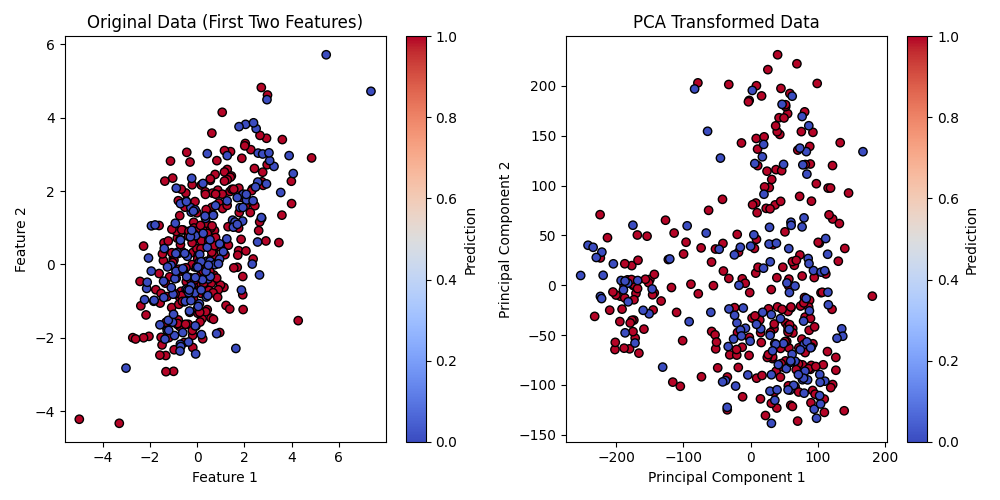
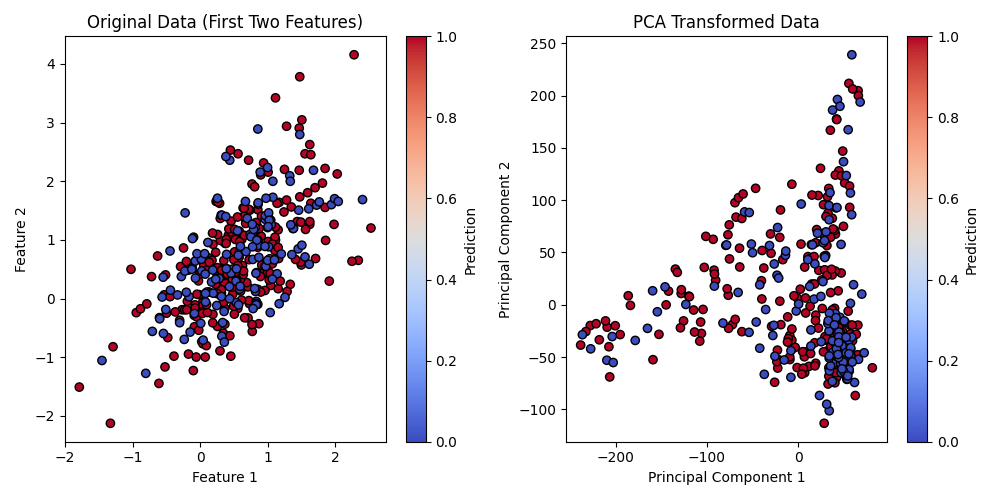
~96%

diff --git a/negate/extract.py b/negate/extract.py
@@ -72,7 +72,7 @@ class FeatureExtractor:
         from diffusers.models import autoencoders
         from huggingface_hub import snapshot_download
 
-        vae_path = snapshot_download(self.model.enum, allow_patterns=["vae/*"])  # type: ignore
+        vae_path: str = snapshot_download(self.model.enum, allow_patterns=["vae/*"])  # type: ignore
         vae_path = os.path.join(vae_path, "vae")
         autoencoder_cls = getattr(autoencoders, self.model.module.split(".")[-1])
         vae_model = autoencoder_cls.from_pretrained(vae_path, torch_dtype=self.dtype).to(self.device.value)
@@ -97,17 +97,25 @@ class FeatureExtractor:
         :param dataset: HuggingFace Dataset with 'image' column.
         :return: Dictionary with 'features' list."""
         import torch
+        import numpy as np
 
         assert self.vae is not None
         features_list = []
+        patch_stack = []
 
         for image in dataset["image"]:
             color_image = image.convert("RGB")
             color_tensor = self.transform(color_image)
-            batch_tensor = torch.stack([color_tensor]).to(self.device, dtype=self.dtype)  # type: ignore residual tensor
+            patches = self.residual_transform.crop_select(image, size=768, top_k=1)
+            for patch in patches:
+                patch_image = patch.convert("RGB")
+                patch_tensor = self.transform(patch_image)
+                patch_stack.append(patch_tensor)
+
+            batch_tensor = torch.stack([color_tensor, *patch_stack]).to(self.device, dtype=self.dtype)
 
             with torch.no_grad():
-                latents_2_dim_h_w = self.vae.encode(batch_tensor).latent_dist.sample()  # type: ignore latent_dist
+                latents_2_dim_h_w = self.vae.encode(batch_tensor).latent_dist.sample()
                 mean_latent = latents_2_dim_h_w.mean(dim=0).cpu().float().numpy()
                 feature_vec = mean_latent.flatten()
 
@@ -129,17 +137,8 @@ def features(dataset: Dataset, vae_type: VAEModel) -> Dataset:
     :return: Dataset with feature vectors."""
     import torch
 
-    device_type = "cuda" if torch.cuda.is_available() else "mps" if torch.mps.is_available() else "cpu"
-    match device_type:
-        case "cuda":
-            device = DeviceName.CUDA
-            dtype = torch.float32
-        case "mps":
-            device = DeviceName.MPS
-            dtype = torch.float32
-        case _:
-            device = DeviceName.CPU
-            dtype = torch.float32
+    device = DeviceName.CUDA if torch.cuda.is_available() else DeviceName.MPS if torch.mps.is_available() else DeviceName.CPU
+    dtype = torch.bfloat16
 
     with FeatureExtractor(vae_type, device, dtype) as extractor:
         features_dataset = dataset.map(

diff --git a/negate/track.py b/negate/track.py
@@ -146,21 +146,21 @@ def on_graph(train_result: TrainResult) -> None:
     plt.savefig(model_path("pca_transform_map.png"))
     plt.show()
 
-    corr = np.corrcoef(X_train, rowvar=False)
-    upper_triangle_mask = np.triu(np.ones_like(corr, dtype=bool))
-    figure, ax = plt.subplots(figsize=(12, 10))
-    cmap = sns.diverging_palette(20, 230, as_cmap=True)
-    sns.heatmap(
-        corr,
-        mask=upper_triangle_mask,
-        cmap=cmap,
-        vmin=-1,
-        vmax=1,
-        center=0,
-        square=True,
-        linewidths=0.5,
-        cbar_kws={"shrink": 0.5},
-    )
-    figure.savefig(model_path("correlation_heatmap.png"))
+    # corr = np.corrcoef(X_train, rowvar=False)
+    # upper_triangle_mask = np.triu(np.ones_like(corr, dtype=bool))
+    # figure, ax = plt.subplots(figsize=(12, 10))
+    # cmap = sns.diverging_palette(20, 230, as_cmap=True)
+    # sns.heatmap(
+    #     corr,
+    #     mask=upper_triangle_mask,
+    #     cmap=cmap,
+    #     vmin=-1,
+    #     vmax=1,
+    #     center=0,
+    #     square=True,
+    #     linewidths=0.5,
+    #     cbar_kws={"shrink": 0.5},
+    # )
+    # figure.savefig(model_path("correlation_heatmap.png"))
 
-    # plt.tight_layout()
+    # # plt.tight_layout()

diff --git a/negate/save.py b/negate/save.py
@@ -57,7 +57,7 @@ def save_to_onnx(train_result: TrainResult, file_name: str = "negate"):
         format=ModelInputFormat.FORMAT_NONE,
     )
 
-    negate_onnx_file_name = os.path.join("models", f"{file_name}.onnx")
+    negate_onnx_file_name = model_path(f"{file_name}.onnx")
     onnx_model = ONNXConverter.from_xgboost(model, inputs=[input_shape], opset=12)
 
     onnx.save(onnx_model, negate_onnx_file_name)

diff --git a/README.md b/README.md
@@ -13,7 +13,11 @@ A command-line tool and Python library for processing and analyzing images, prov
 
 ## Overview
 
-We use a modern VAE to extract features from images generated from Diffusers, ComfyUI, Darkshapes tools (Zodiac/singularity) and Google Nano-Banana.
+We use a modern VAE to extract features from images generated using Diffusers, ComfyUI, Darkshapes tools (Zodiac/Divisor/singularity) and Google Nano-Banana. Using a modular pipeline that integrates a combination of feature extraction techniques such as spectral residual analysis and feature vectors extracted from the images, we train a Gradient Boosting Decision Tree model and its associated PCA transformer to distinguish between images of synthetic and human origin. Preliminary results demonstrate high accuracy in detecting synthetic images.
+
+This repo provides a simple command‑line interface to invoke the tool and examples of integrating the library of predictions and metrics into other works. We make all attempts to follow continuous integration best practices for deploying and maintaining software, ensuring the code is readied for production environments.
+
+Future work includes the development of an automated testing framework and evaluation suite, expanding the scope of research to include wider diversity of synthetic and original human-generated datasets, benchmarking against comparable methods, and exploring additional model architectures.
 
 ![Bar and grid graph comparing variance of the synthetic and real images](results/score_explained_variance.png)
 ![Graph comparing before and after pca transform operation of dataset](results/pca_transform_map.png)
@@ -21,9 +25,9 @@ We use a modern VAE to extract features from images generated from Diffusers, Co
 
 ## Requirements
 
-- A dataset of images made by human artists with width and height dimensions larger than 512 pixels.
+- A dataset of images made by human artists with width and height dimensions larger than 512 pixels. This will serve as ground truth and should be placed in the `/assets` folder.
 - A [huggingface](https://hf.co) account that will be used to download models and synthetic datasets. Create an API Key at their website, then sign in with `hf auth login`.
-- It is recommended to run on a GPU to ensure efficient processing and reduce training time.
+- It is recommended to run `negate` on a GPU to ensure efficient processing and reduced training time.
 
 > [!NOTE]
 >
@@ -55,7 +59,7 @@ Set-ExecutionPolicy Bypass -Scope Process -Force; .venv\Scripts\Activate.ps1
 
 ## CLI:
 
-Add human-origin assets to `assets/` folder
+Basic Syntax:
 
 ```sh
 usage: negate [-h] {train,check} ...
@@ -69,4 +73,31 @@ positional arguments:
 
 options:
   -h, --help     show this help message and exit
+```
+
+Training syntax:
+
+```sh
+usage: negate train [-h] [--model {black-forest-labs/FLUX.2-dev,black-forest-labs/FLUX.2-klein-9B,Tongyi-MAI/Z-Image,Freepik/F-Lite-Texture}] [path]
+
+positional arguments:
+  path                  Dataset path
+
+options:
+  --model {black-forest-labs/FLUX.2-dev,black-forest-labs/FLUX.2-klein-9B,Tongyi-MAI/Z-Image,Freepik/F-Lite-Texture}
+                        Change the VAE model to use for training to a supported HuggingFace repo. Accuracy and memory use decrease from left to right
+```
+
+Check the origin of an image:
+``
+usage: negate check [-h] path
+
+positional arguments:
+path Image path
+
+options:
+-h, --help show this help message and exit
+
+```
+
 ```
